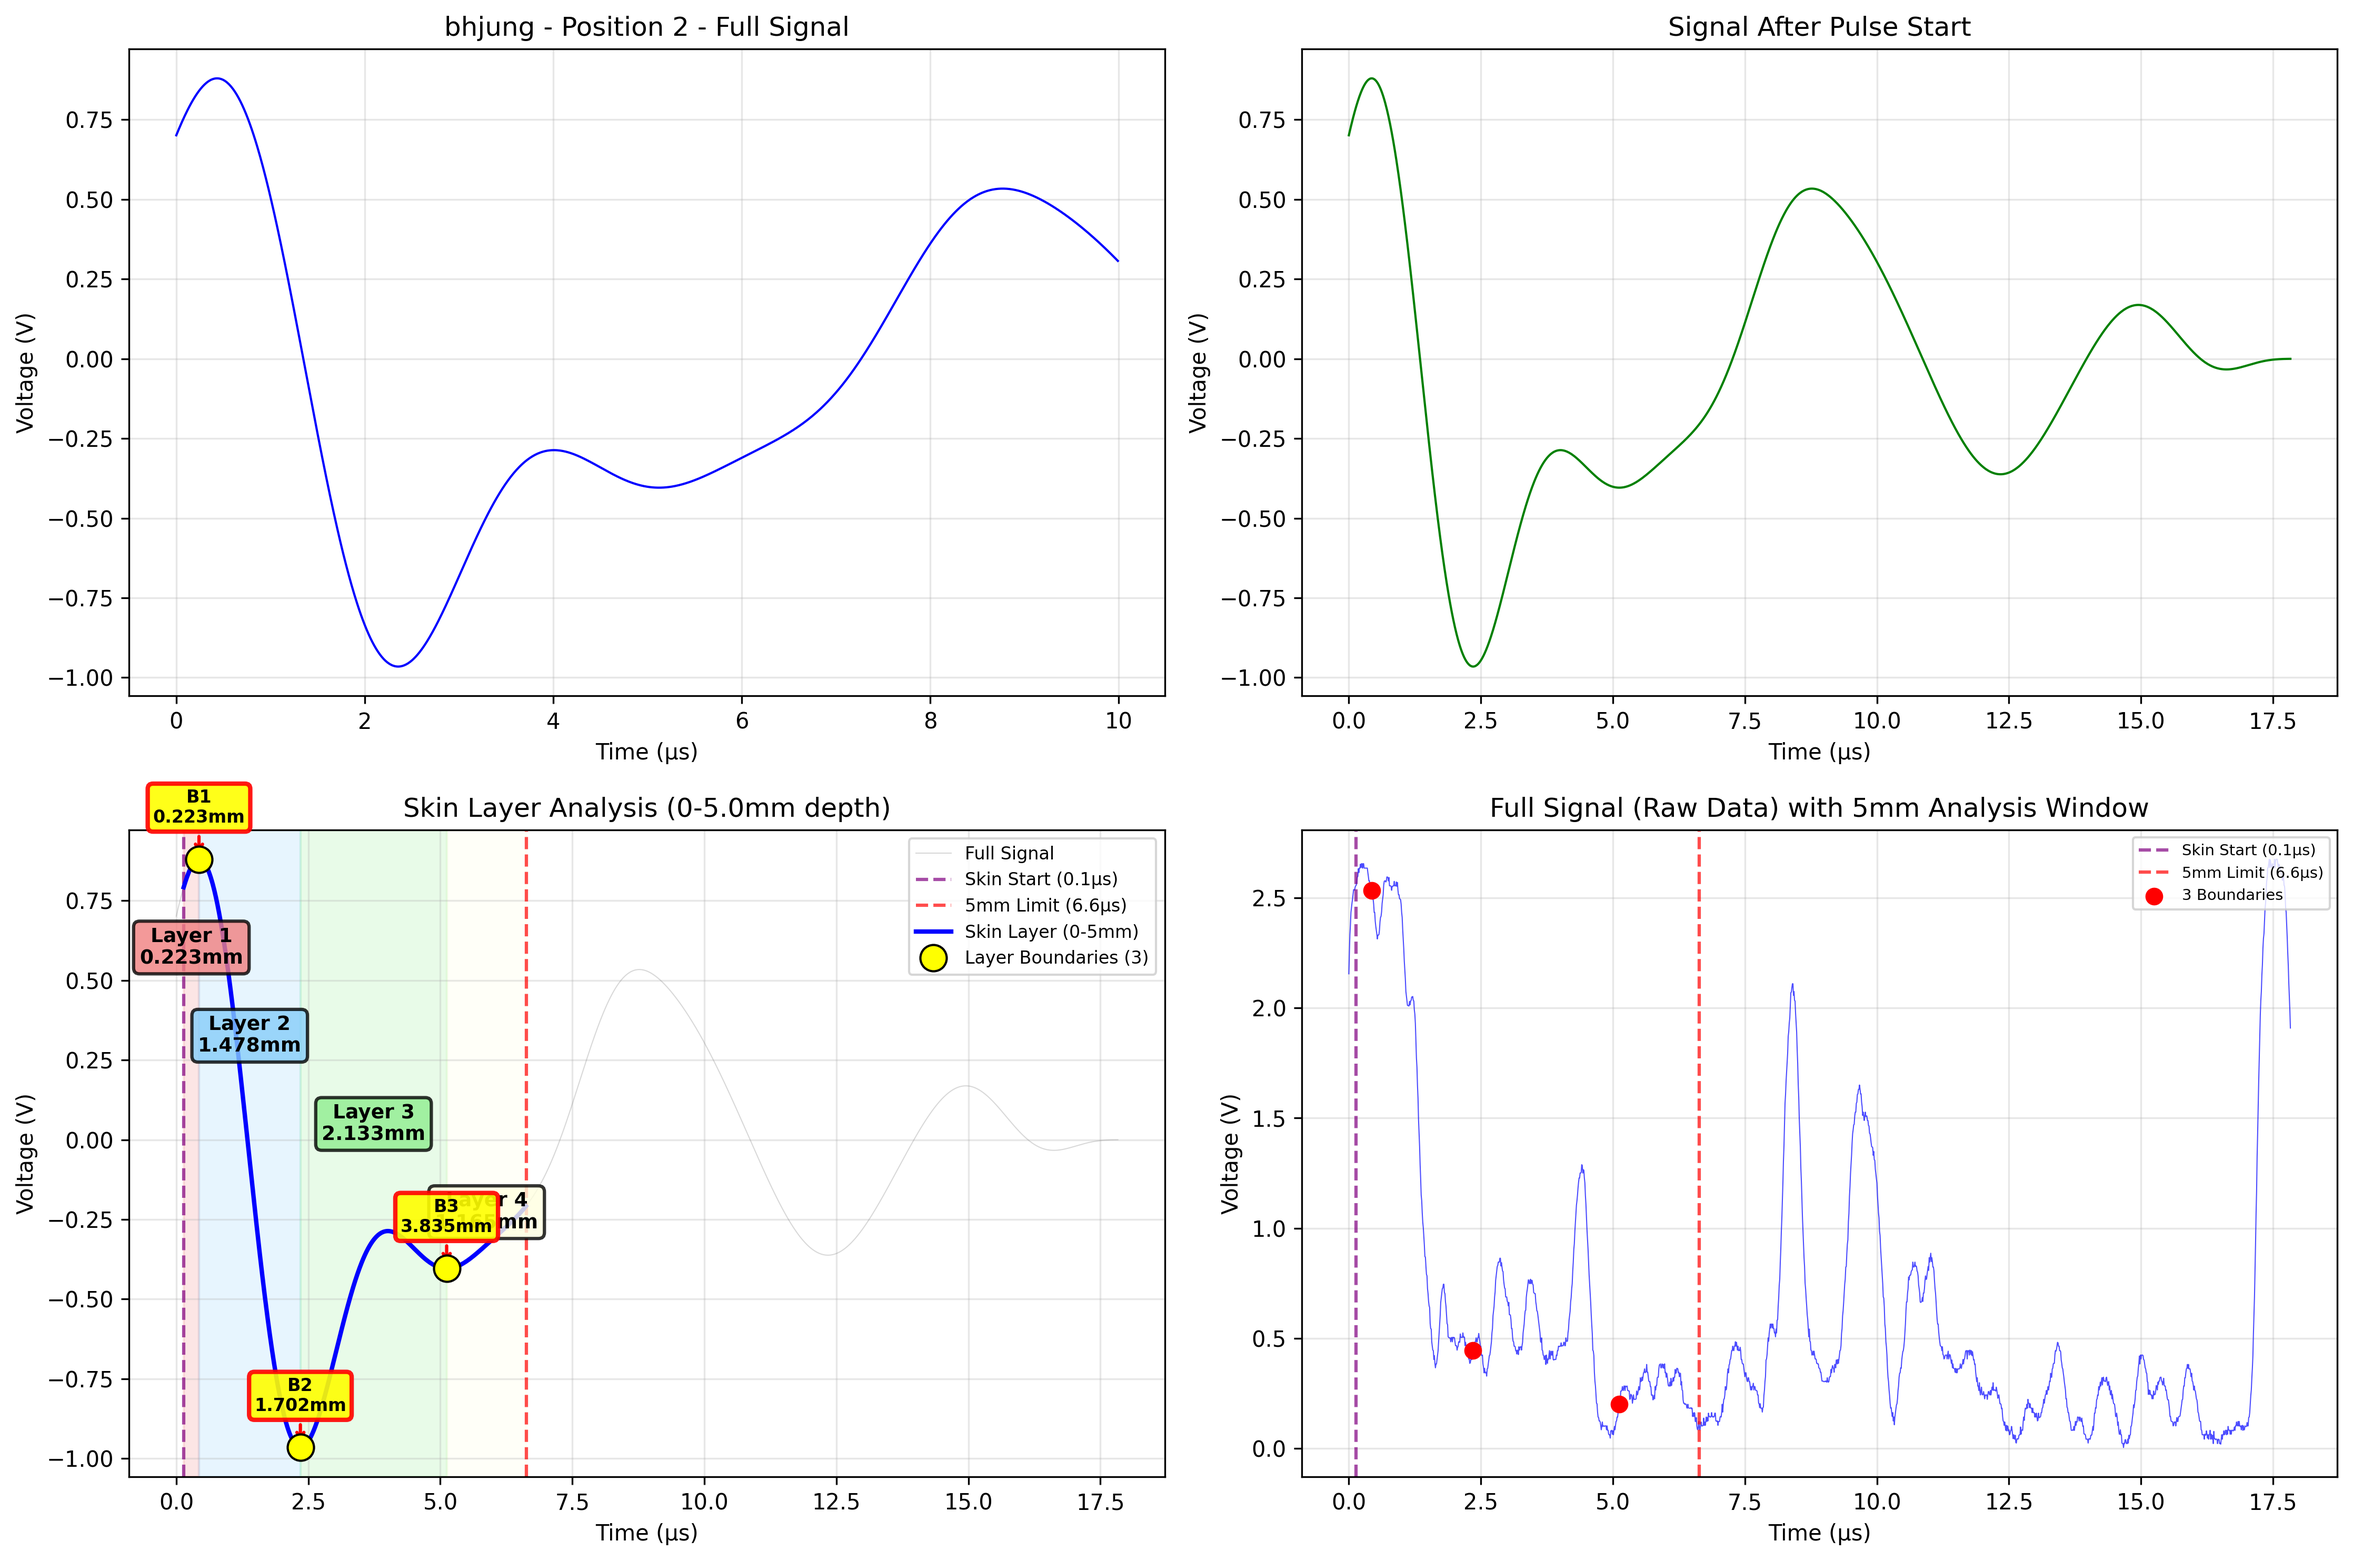
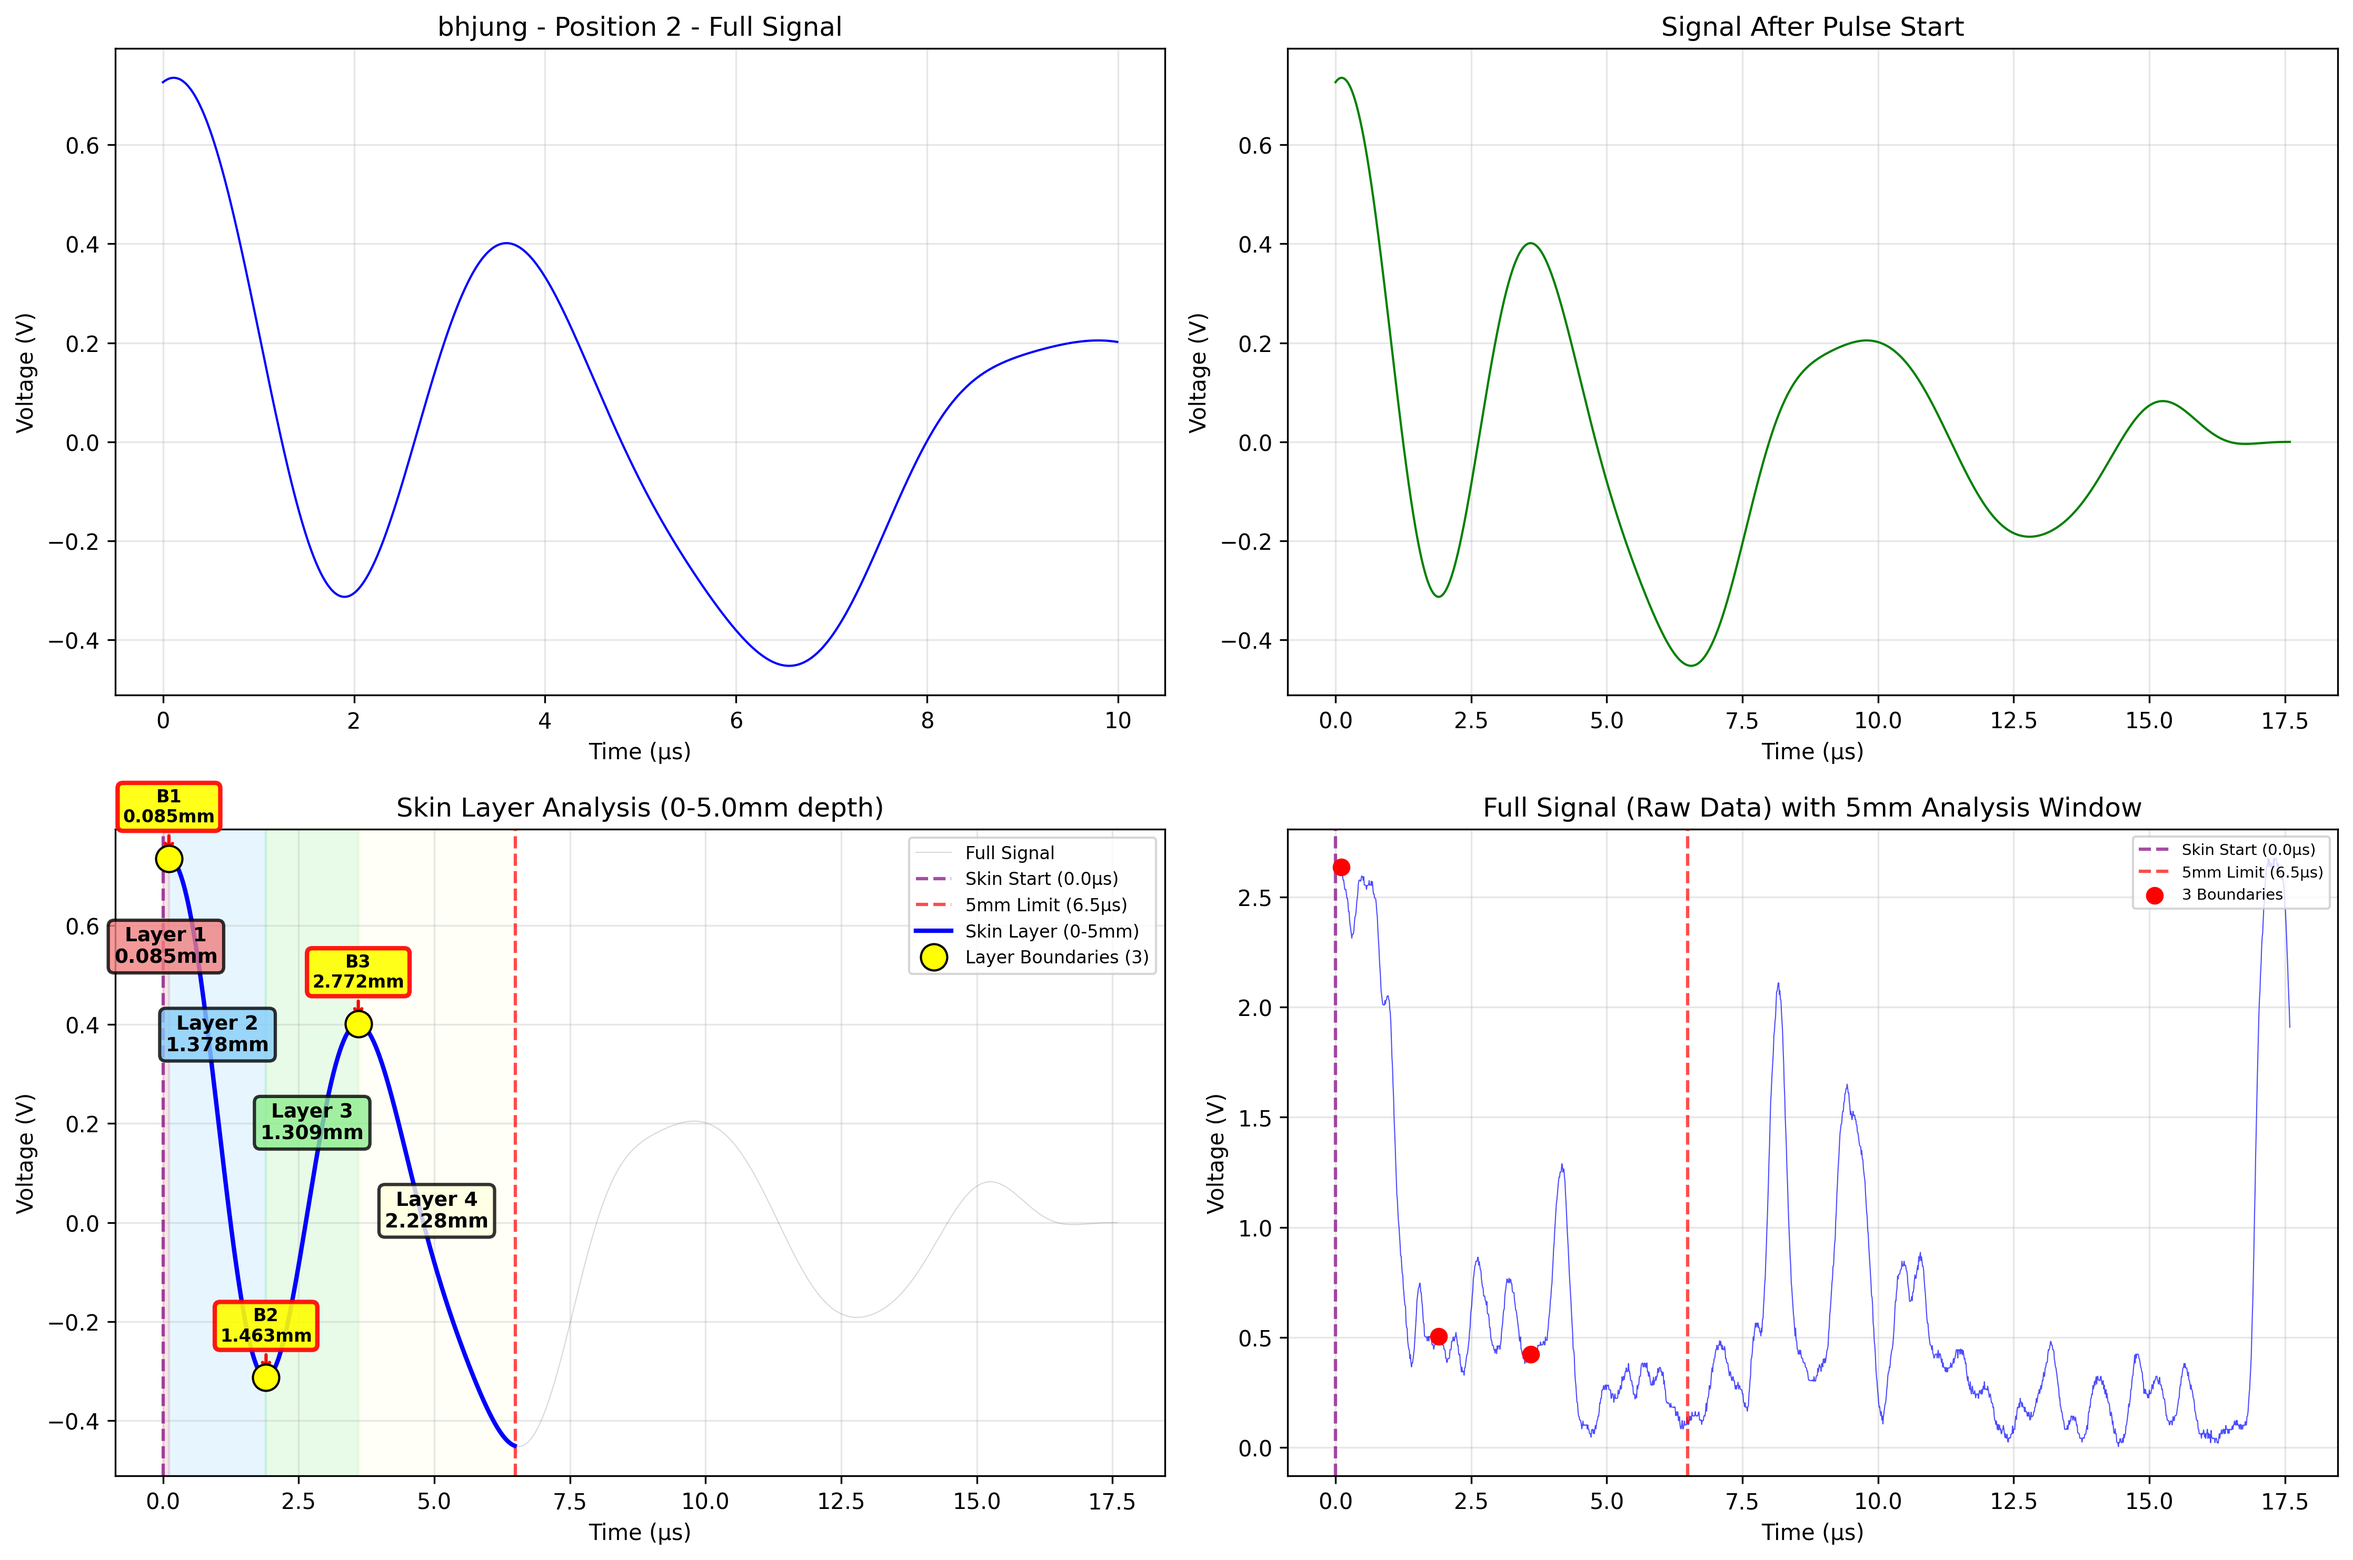
펄스 시작점 검출 알고리즘 개선
문제점:
- Drpark Position 2에서 첫 번째 큰 피크(2.5V)를 지나쳐 잘못된 시작점 검출
- 단순 임계값 방식으로는 신호 특성에 따라 부정확

개선 사항:
1. 2단계 검출 방식 도입
   - 1단계: 평균 + 표준편차 기반 후보 찾기
   - 2단계: 후보 주변 ±50~100 샘플 범위에서 최대 피크 검출

2. 적응형 임계값
   - 첫 시도: mean + 2*std
   - 재시도: mean + 1.5*std (검출 실패 시)

3. 지역 최대값 검색
   - 후보 지점 주변에서 절댓값 최대 지점 찾기
   - 더 정확한 펄스 시작점 식별

결과:
- 모든 환자 데이터에서 올바른 시작점 검출
- cmkim Position 7 데이터도 성공적으로 처리 (24개 이미지 생성)
- 총 84개 층 데이터 수집 (이전 89개에서 조정)

🤖 Generated with [Claude Code](https://claude.com/claude-code)

diff --git a/analyze_all_patients.py b/analyze_all_patients.py
@@ -48,16 +48,35 @@ def analyze_single_file(file_path: str, patient_id: str, position: int) -> Dict:
         # 시간 데이터를 μs로 변환
         time_us = time_data * 1e6
 
-        # 펄스 시작점 찾기
-        threshold = np.std(voltage_data) * 3
-        pulse_start_indices = np.where(np.abs(voltage_data) > threshold)[0]
+        # 펄스 시작점 찾기 (개선된 방법)
+        # 1단계: 초기 임계값으로 후보 찾기
+        std_val = np.std(voltage_data)
+        mean_val = np.mean(voltage_data)
 
-        if len(pulse_start_indices) == 0:
+        # 평균에서 크게 벗어난 첫 번째 지점 찾기
+        threshold = mean_val + std_val * 2
+        pulse_candidates = np.where(np.abs(voltage_data) > threshold)[0]
+
+        if len(pulse_candidates) == 0:
+            # 임계값을 낮춰서 재시도
+            threshold = mean_val + std_val * 1.5
+            pulse_candidates = np.where(np.abs(voltage_data) > threshold)[0]
+
+        if len(pulse_candidates) == 0:
             return None
 
+        # 2단계: 첫 번째 후보 근처에서 최대 피크 찾기
+        # 첫 후보 주변 ±50 샘플 범위에서 절댓값 최대 지점 찾기
+        first_candidate = pulse_candidates[0]
+        search_start = max(0, first_candidate - 50)
+        search_end = min(len(voltage_data), first_candidate + 100)
+
+        search_window = voltage_data[search_start:search_end]
+        max_abs_idx = search_start + np.argmax(np.abs(search_window))
+
         # 펄스 시작점 이후 데이터
-        analysis_time = time_us[pulse_start_indices[0]:] - time_us[pulse_start_indices[0]]
-        analysis_voltage = voltage_data[pulse_start_indices[0]:]
+        analysis_time = time_us[max_abs_idx:] - time_us[max_abs_idx]
+        analysis_voltage = voltage_data[max_abs_idx:]
 
         # 전처리
         preprocessor = UltrasoundPreprocessor(sample_rate=sample_rate)
